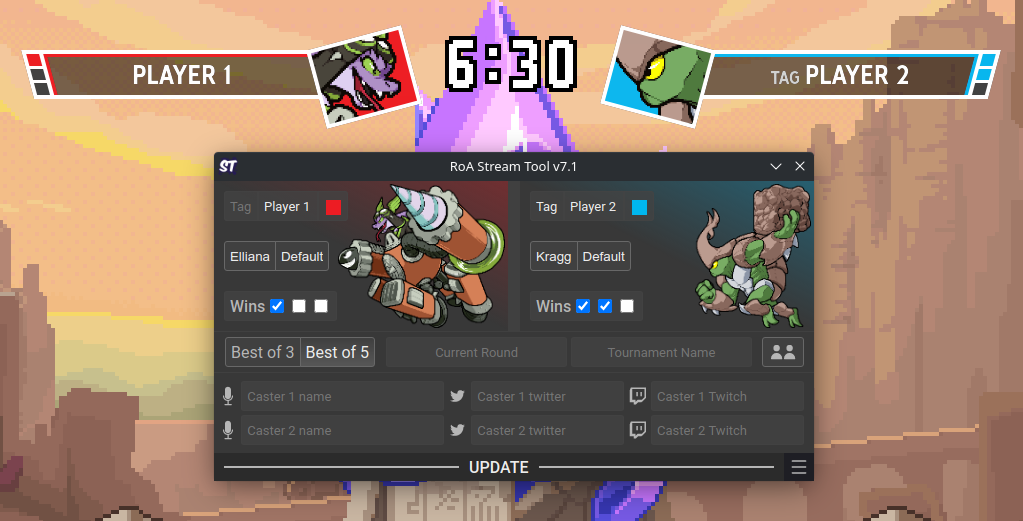
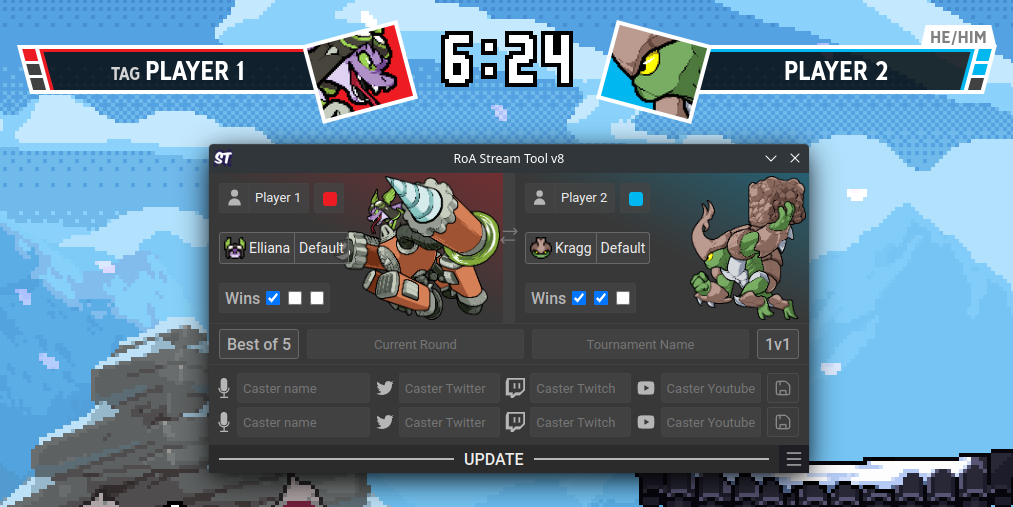
Update Readme + Version bump

diff --git a/Stream Tool/Resources/GUI.html b/Stream Tool/Resources/GUI.html
@@ -2,7 +2,7 @@
 <html>
   <head>
     <meta charset="UTF-8">
-    <title>RoA Stream Tool v8 [GIT]</title>
+    <title>RoA Stream Tool v8</title>
     <link rel="stylesheet" href="CSS/GUI.css">
     <script src="Scripts/mousetrap.min.js" defer></script>
     <script src="Scripts/GUI.js" defer></script>

diff --git a/README.md b/README.md
@@ -15,12 +15,14 @@ So you want to do a Rivals of Aether stream, huh? Well, today is your lucky day,
 
 ## Features
 - [Easy and fast setup](https://gfycat.com/rectangulartintedabyssiniangroundhornbill) using a browser source. Drag and drop!
-- [Handy interface](https://gfycat.com/thirstyripeeyra) to quickly change everything you need, like player names, characters, scores, round, casters...
-- Customizable [Player Presets](https://gfycat.com/melodicwearybuzzard) to setup your match in no time!
-- Every single skin the game has to offer is supported (more than 300 different skins!), including HD renders. **Workshop** characters are also supported!
+- [Handy interface](https://gfycat.com/thirstyripeeyra) to quickly change everything you need, like player names, pronouns, characters, scores, round, casters...
+ - With customizable [Player Presets](https://gfycat.com/distanthairyaurochs) to setup your match in no time! Caster presets are now also supported!
+- Every single character and skin the game has to offer is supported (more than 300 different skins!), including HD renders.
+ - **Workshop** characters are also supported!
 - Now with [2v2 support](https://gfycat.com/brokenbravehumpbackwhale)!
 - [Dynamic, optional intro](https://gfycat.com/revolvingsmarteuropeanpolecat) to be played when changing to the game scene.
 - A "[VS Screen](https://gfycat.com/peacefulelatedblowfish)" to be displayed when waiting for the next game.
+- A [Remote GUI](https://gfycat.com/complexexaltedchupacabra) that can be accessed by any device within the local network, including mobile devices!
 - Easy to customize! Add your own skins, workshop characters, custom overlays or even dive into the code if you're brave enough!
 
 ---
@@ -62,6 +64,10 @@ Yes, the instructions above are enough, but we can do better. **All of this is o
 - Also, you may want to set a hotkey to transition to the game scene so you can press enter ingame to start the replay and press the transition key at the same time. The transition is timed to do so.
 
 Also, you may find the "3 2 1" of the game's intro a bit distracting when combined with the scoreboard intro. [These](https://drive.google.com/open?id=1NEDii3B50eHT_goADzn6t3_O8Uvok0Gs) are the sprites to remove them (using the [Modding Tool](https://github.com/jam1garner/gm_data_win/releases/latest)).
+
+### Remote GUI
+
+The Stream Tool GUI can be controlled remotely by any device within the local network where the GUI is running, and yes, this includes mobile devices! Please take a look at the [wiki](https://github.com/Readek/RoA-Stream-Tool/wiki/8.-Remote-GUI) for instructions.
 
 ---
 
